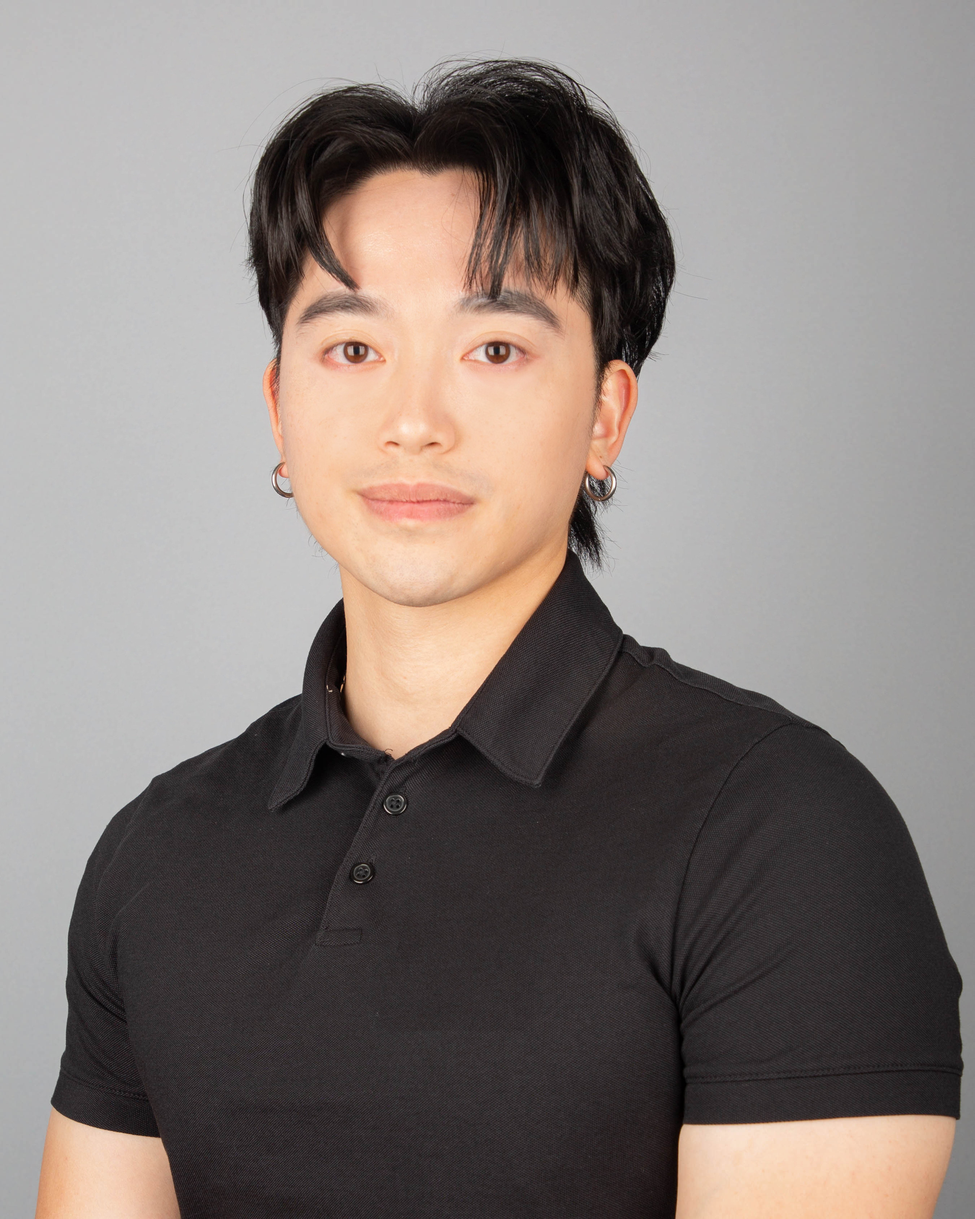
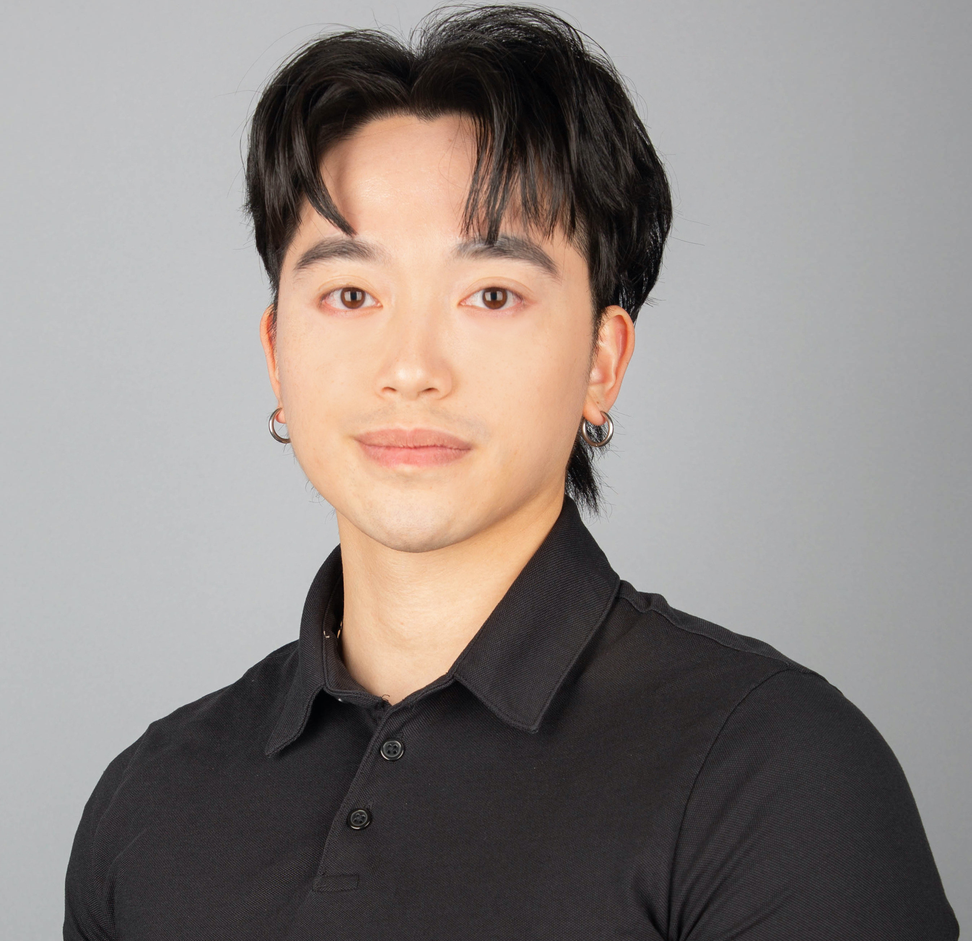
- .member-photo — background changed from var(--bg-mid) to #1e1e3a; border: 2px dashed #3b7ff5 added;   overflow: hidden and position: relative were already there ✓

Changed region(s): [[0.0312, 0.0, 0.9981, 1.0]]

diff --git a/website/team.html b/website/team.html
@@ -174,7 +174,8 @@
       border-radius: 50%;
       overflow: hidden;
       margin: 0 auto 1.3rem;
-      background: var(--bg-mid);
+      background: #1e1e3a;
+      border: 2px dashed #3b7ff5;
       position: relative;
       display: flex;
       align-items: center;
@@ -182,29 +183,25 @@
       flex-shrink: 0;
     }
 
+    /* Fallback SVG — always present, img covers it when loaded */
+    .member-photo-fallback {
+      position: absolute;
+      inset: 0;
+      display: flex;
+      align-items: center;
+      justify-content: center;
+    }
+
+    /* img sits on top; onerror hides it to reveal the fallback */
     .member-photo img {
+      position: absolute;
+      inset: 0;
       width: 100%;
       height: 100%;
       object-fit: cover;
       object-position: center;
       display: block;
-      border-radius: 50%;
     }
-
-    /* Fallback state applied by onerror JS */
-    .member-photo.photo-error {
-      background: #1e1e3a;
-      border: 2px dashed #3b7ff5;
-    }
-
-    .member-photo-fallback {
-      display: none;
-      position: absolute;
-      inset: 0;
-      align-items: center;
-      justify-content: center;
-    }
-    .member-photo.photo-error .member-photo-fallback { display: flex; }
 
     /* ── CARD TEXT ── */
     .member-name {
@@ -363,17 +360,19 @@
       <!-- Joshua Randall -->
       <div class="team-card">
         <div class="member-photo">
-          <img
-            src="team/joshua.jpg"
-            alt="Joshua Randall"
-            onerror="this.style.display='none';this.parentElement.classList.add('photo-error');"
-          />
           <div class="member-photo-fallback" aria-hidden="true">
             <svg xmlns="http://www.w3.org/2000/svg" width="44" height="44" viewBox="0 0 24 24" fill="none" stroke="#3b7ff5" stroke-width="1.5" stroke-linecap="round" stroke-linejoin="round">
               <circle cx="12" cy="8" r="4"/>
               <path d="M20 21a8 8 0 0 0-16 0"/>
             </svg>
           </div>
+          <img
+            src="../team/joshua.jpg"
+            alt="Joshua Randall"
+            width="120"
+            height="120"
+            onerror="this.style.display='none';"
+          />
         </div>
         <p class="member-name">Joshua Randall</p>
         <p class="member-bio">Bio coming soon.</p>
@@ -382,17 +381,19 @@
       <!-- Long Nguyen Thanh Le -->
       <div class="team-card">
         <div class="member-photo">
-          <img
-            src="team/long.jpg"
-            alt="Long Nguyen Thanh Le"
-            onerror="this.style.display='none';this.parentElement.classList.add('photo-error');"
-          />
           <div class="member-photo-fallback" aria-hidden="true">
             <svg xmlns="http://www.w3.org/2000/svg" width="44" height="44" viewBox="0 0 24 24" fill="none" stroke="#3b7ff5" stroke-width="1.5" stroke-linecap="round" stroke-linejoin="round">
               <circle cx="12" cy="8" r="4"/>
               <path d="M20 21a8 8 0 0 0-16 0"/>
             </svg>
           </div>
+          <img
+            src="../team/long.jpg"
+            alt="Long Nguyen Thanh Le"
+            width="120"
+            height="120"
+            onerror="this.style.display='none';"
+          />
         </div>
         <p class="member-name">Long Nguyen Thanh Le</p>
         <p class="member-bio">Bio coming soon.</p>
@@ -401,17 +402,19 @@
       <!-- Nathan Rupard -->
       <div class="team-card">
         <div class="member-photo">
-          <img
-            src="team/nathan.jpg"
-            alt="Nathan Rupard"
-            onerror="this.style.display='none';this.parentElement.classList.add('photo-error');"
-          />
           <div class="member-photo-fallback" aria-hidden="true">
             <svg xmlns="http://www.w3.org/2000/svg" width="44" height="44" viewBox="0 0 24 24" fill="none" stroke="#3b7ff5" stroke-width="1.5" stroke-linecap="round" stroke-linejoin="round">
               <circle cx="12" cy="8" r="4"/>
               <path d="M20 21a8 8 0 0 0-16 0"/>
             </svg>
           </div>
+          <img
+            src="../team/nathan.jpg"
+            alt="Nathan Rupard"
+            width="120"
+            height="120"
+            onerror="this.style.display='none';"
+          />
         </div>
         <p class="member-name">Nathan Rupard</p>
         <p class="member-bio">Bio coming soon.</p>
@@ -420,17 +423,19 @@
       <!-- Vasanth Anbukumar -->
       <div class="team-card">
         <div class="member-photo">
-          <img
-            src="team/vasanth.jpg"
-            alt="Vasanth Anbukumar"
-            onerror="this.style.display='none';this.parentElement.classList.add('photo-error');"
-          />
           <div class="member-photo-fallback" aria-hidden="true">
             <svg xmlns="http://www.w3.org/2000/svg" width="44" height="44" viewBox="0 0 24 24" fill="none" stroke="#3b7ff5" stroke-width="1.5" stroke-linecap="round" stroke-linejoin="round">
               <circle cx="12" cy="8" r="4"/>
               <path d="M20 21a8 8 0 0 0-16 0"/>
             </svg>
           </div>
+          <img
+            src="../team/vasanth.jpg"
+            alt="Vasanth Anbukumar"
+            width="120"
+            height="120"
+            onerror="this.style.display='none';"
+          />
         </div>
         <p class="member-name">Vasanth Anbukumar</p>
         <p class="member-bio">Bio coming soon.</p>
